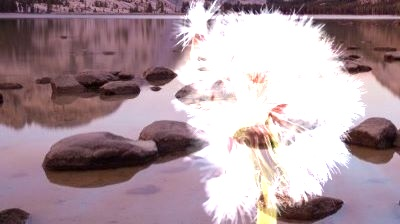
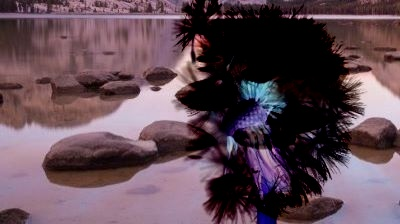
locate object

diff --git a/test.py b/test.py
@@ -1,0 +1,82 @@
+import numpy as np
+import cv2 as cv
+import time
+import math
+import matplotlib.pyplot as plt
+from resize_img import resizeImg
+
+
+print('Reading image...')
+img1 = cv.imread('img/object1.jpg', cv.IMREAD_GRAYSCALE)     # queryImage
+img2 = cv.imread('img/scene1.jpg', cv.IMREAD_GRAYSCALE)       # trainImage
+
+# resize 20%
+img1 = resizeImg(img1, 20)
+img2 = resizeImg(img2, 20)
+
+
+sift = cv.SIFT_create()
+kp1, des1 = sift.detectAndCompute(img1,None)
+kp2, des2 = sift.detectAndCompute(img2,None)
+
+print('KeyPoint matching...')
+t = time.time()
+bf = cv.BFMatcher()
+matches = []
+
+matches = bf.knnMatch(des1, des2, 2);
+
+# for i in range(0, len(des1)):
+#     minDistSq1 = minDistSq2 = 99999999
+#     minIdx1 = minIdx2 = -1
+#     for j in range(0, len(des2)):
+#         diffVec = des2[j] - des1[i]
+#         distSq = np.sum(np.square(diffVec))
+#         if distSq < minDistSq1:
+#             minDistSq2 = minDistSq1
+#             minDistSq1 = distSq
+#             minIdx2 = minIdx1
+#             minIdx1 = j
+#         elif distSq < minDistSq2:
+#             minDistSq2 = distSq
+#             minIdx2 = j
+#
+#     matches.append([
+#         cv.DMatch(i, minIdx1, 0, math.sqrt(minDistSq1)),
+#         cv.DMatch(i, minIdx2, 0, math.sqrt(minDistSq2))
+#     ])
+
+good = []
+for m,n in matches:
+    if m.distance < 0.75*n.distance:
+        good.append(m)
+
+time = time.time() - t
+print('({}s)'.format(time))
+print('Done')
+
+matchesMask = None
+
+MIN_MATCH_COUNT = 10
+if len(good) > MIN_MATCH_COUNT:
+    src_pts = np.float32([kp1[m.queryIdx].pt for m in good])
+    dst_pts = np.float32([kp2[m.trainIdx].pt for m in good])
+    M, mask = cv.findHomography(src_pts, dst_pts, cv.RANSAC,5.0)
+    matchesMask = mask.ravel().tolist()
+    h, w = img1.shape
+    pts = np.float32([[0,0], [0,h-1], [w-1,h-1], [w-1, 0]]).reshape(-1,1,2)
+    dst = cv.perspectiveTransform(pts, M)
+    img2 = cv.polylines(img2, [np.int32(dst)], True, 255, 3, cv.LINE_AA)
+
+else:
+    print("Not enough matches are found - {}/{}".format(len(good), MIN_MATCH_COUNT))
+    matchesMask = None
+
+
+
+draw_params = dict(matchColor = (0,255,0), # draw matches in green color
+                   singlePointColor = None,
+                   matchesMask = None, # draw only inliers
+                   flags = 2)
+img3 = cv.drawMatches(img1,kp1,img2,kp2,good,None,**draw_params)
+plt.imshow(img3, 'gray'),plt.show()

diff --git a/detect_object.py b/detect_object.py
@@ -1,0 +1,41 @@
+import numpy as np
+import cv2 as cv
+from matplotlib import pyplot as plt
+MIN_MATCH_COUNT = 10
+img1 = cv.imread('img/object0.jpg', 0)          # queryImage
+img2 = cv.imread('img/scene0.jpg', 0) # trainImage
+# Initiate SIFT detector
+sift = cv.SIFT_create()
+# find the keypoints and descriptors with SIFT
+kp1, des1 = sift.detectAndCompute(img1,None)
+kp2, des2 = sift.detectAndCompute(img2,None)
+FLANN_INDEX_KDTREE = 1
+index_params = dict(algorithm = FLANN_INDEX_KDTREE, trees = 5)
+search_params = dict(checks = 50)
+flann = cv.FlannBasedMatcher(index_params, search_params)
+matches = flann.knnMatch(des1,des2,k=2)
+# store all the good matches as per Lowe's ratio test.
+good = []
+for m,n in matches:
+    if m.distance < 0.7*n.distance:
+        good.append(m)
+
+if len(good)>MIN_MATCH_COUNT:
+    src_pts = np.float32([ kp1[m.queryIdx].pt for m in good ])
+    dst_pts = np.float32([ kp2[m.trainIdx].pt for m in good ])
+    M, mask = cv.findHomography(src_pts, dst_pts, cv.RANSAC,5.0)
+    matchesMask = mask.ravel().tolist()
+    h,w = img1.shape
+    pts = np.float32([ [0,0],[0,h-1],[w-1,h-1],[w-1,0] ]).reshape(-1,1,2)
+    dst = cv.perspectiveTransform(pts,M)
+    img2 = cv.polylines(img2,[np.int32(dst)],True,255,3, cv.LINE_AA)
+else:
+    print( "Not enough matches are found - {}/{}".format(len(good), MIN_MATCH_COUNT) )
+    matchesMask = None
+
+draw_params = dict(matchColor = (0,255,0), # draw matches in green color
+                   singlePointColor = None,
+                   matchesMask = matchesMask, # draw only inliers
+                   flags = 2)
+img3 = cv.drawMatches(img1,kp1,img2,kp2,good,None,**draw_params)
+plt.imshow(img3, 'gray'),plt.show()

diff --git a/matching.py b/matching.py
@@ -3,20 +3,17 @@ import cv2 as cv
 import time
 import math
 import matplotlib.pyplot as plt
+from resize_img import resizeImg
 
-def resizeImg(img, scale_percent):
-    width = int(img.shape[1] * scale_percent / 100)
-    height = int(img.shape[0] * scale_percent / 100)
-    dim = (width, height)
-    return cv.resize(img, dim, interpolation=cv.INTER_AREA)
 
 print('Reading image...')
-img1 = cv.imread('img/theguixe.jpg', cv.IMREAD_GRAYSCALE)     # queryImage
-img2 = cv.imread('img/caiban.jpg', cv.IMREAD_GRAYSCALE)       # trainImage
+img1 = cv.imread('img/object0.jpg', cv.IMREAD_GRAYSCALE)     # queryImage
+img2 = cv.imread('img/scene0.jpg', cv.IMREAD_GRAYSCALE)       # trainImage
 
 # resize 20%
-img1 = resizeImg(img1, 15)
-img2 = resizeImg(img2, 15)
+img1 = resizeImg(img1, 20)
+img2 = resizeImg(img2, 20)
+
 
 # Initiate SIFT detector
 sift = cv.SIFT_create()

diff --git a/addImg.py b/addImg.py
@@ -6,8 +6,8 @@ def addImg(img1, img2):
     i1 = img1.astype('float')
     i2 = img2.astype('float')
 
-    img3 = np.add(i1, i2)
-    img3[img3 > 255] = 255
+    img3 = np.subtract(i1, i2)
+    img3[img3 < 255] = 255
     return img3.astype('uint8')
 
 img1 = cv.imread("img/img1.jpg")

diff --git a/resize_img.py b/resize_img.py
@@ -1,0 +1,7 @@
+import cv2 as cv
+
+def resizeImg(img, scale_percent):
+    width = int(img.shape[1] * scale_percent / 100)
+    height = int(img.shape[0] * scale_percent / 100)
+    dim = (width, height)
+    return cv.resize(img, dim, interpolation=cv.INTER_AREA)
